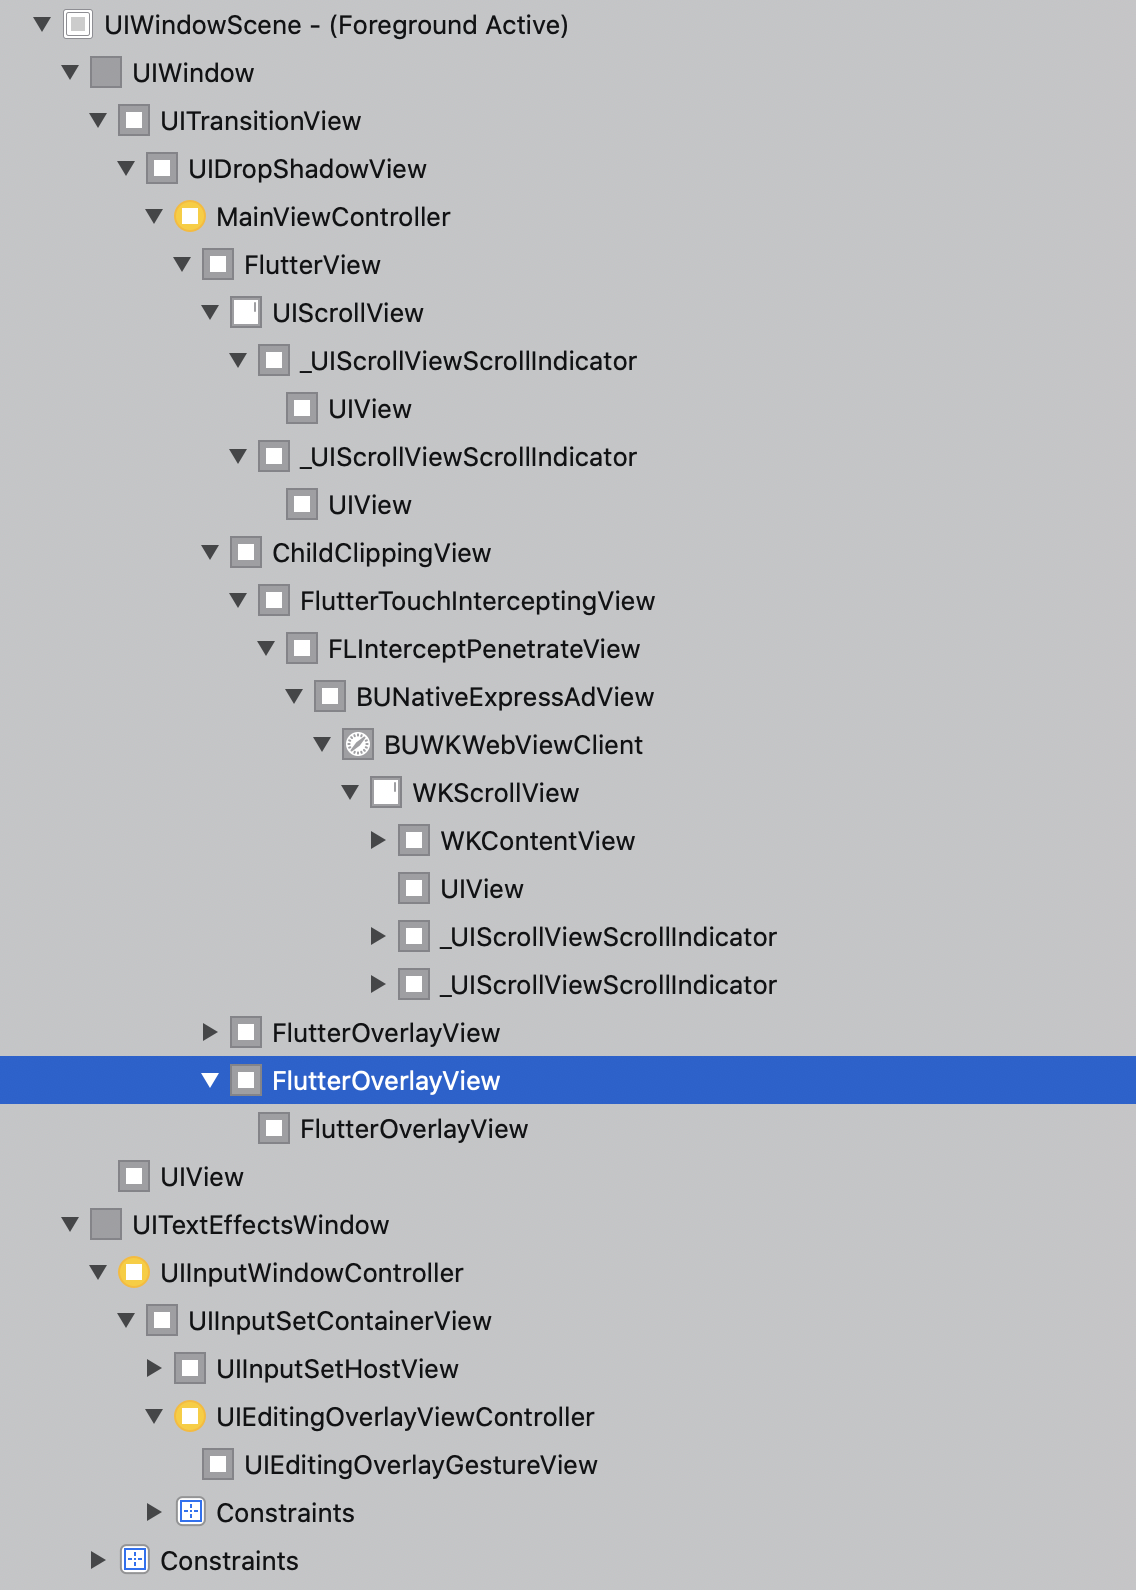
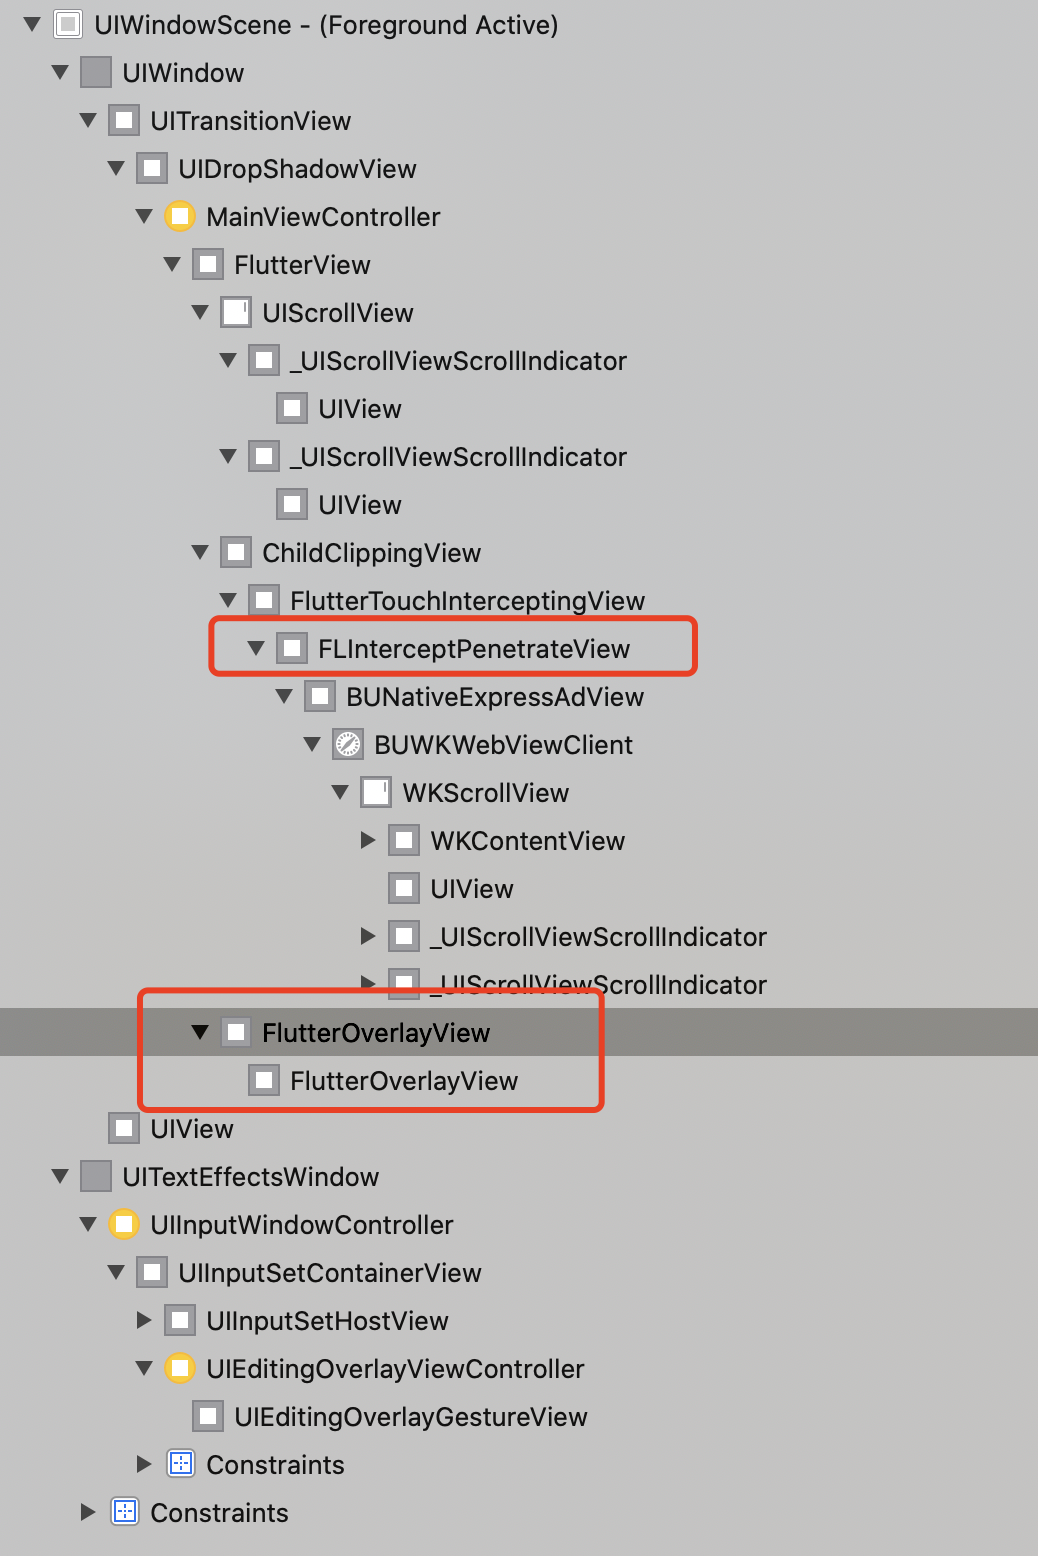
更新flutter原生广告点击穿透文章

Changed region(s): [[0.0, 0.0, 1.0, 0.9871]]

diff --git a/_posts/2021-02-01-bytedance-ad-click-penetration-on-flutter.md b/_posts/2021-02-01-bytedance-ad-click-penetration-on-flutter.md
@@ -159,7 +159,9 @@ root_views_[viewId] = fml::scoped_nsobject<UIView>([clipping_view retain]);
 > 1. Delay or prevent touch events from arriving the embedded view.
 > 2. Dispatching all events that are hittested to the embedded view to the FlutterView.
 
-文字总是晦涩难懂，下面是`PlatformView`实际案例的截图，可以更清晰明了地看到View的层级关系
+**实际案例展示**
+
+文字总是晦涩难懂，下面是`PlatformView`实际案例的截图，可以更清晰明了地看到`View`的层级关系
 
 |                     iOS View Tree                     |                 实时渲染层级                 |
 | :---------------------------------------------------: | :------------------------------------------: |
@@ -169,19 +171,19 @@ root_views_[viewId] = fml::scoped_nsobject<UIView>([clipping_view retain]);
 
 ## 什么是点击穿透
 
-在了解了头条原生广告是如何以`PlatformView`形式展示之后，我们继续来看看，点击穿透是如何发生的。当`PlatformView`滑动到页面某个位置时，可能会出现Flutter 页面中的Widget和`PlatformView`重叠的情况。此时点击屏幕时用户期望的是由最上方展示的UI层来响应点击事件，然而在实际开发中，笔者发现头条广告所在的`PlatformView`被Widget遮挡的时候，用户点击Widget，广告的点击事件却被响应了。如图所示：
+在了解了头条原生广告是如何以`PlatformView`形式展示之后，我们继续来看看，点击穿透是如何发生的。当`PlatformView`滑动到页面某个位置时，可能会出现Flutter 页面中的`Widget`和`PlatformView`重叠的情况。此时点击屏幕时用户期望的是由最上方展示的UI层来响应点击事件，然而在实际开发中，笔者发现头条广告所在的`PlatformView`被Widget遮挡的时候，用户点击`Widget`，广告的点击事件却被响应了。如图所示：
 
 ![](/assets/img/flutter/express-penetrate.gif)
 
-上图的场景是，把头条广告滑动到搜索栏下方，然后点击搜索栏Widget，响应到搜索事件（可以看到搜索页面已经被调起），然而广告点击事件也响应了（跳转到广告指定的App Store链接）。
+上图的场景是，把头条广告滑动到搜索栏下方，然后点击搜索栏`Widget`，响应到搜索事件（可以看到搜索页面已经被调起），然而广告点击事件也响应了（跳转到广告指定的App Store链接）。
 
 ## 点击穿透时 Flutter 做了什么
 
 不知道读者发现了没，如上动图展示的场景，跟普通`PlatformView`没有被遮挡的场景不太一样，那么`PlatformView`被遮挡时，Flutter 又是如何渲染的呢？
 
-由上面的iOS View Tree图我们知道，当 Flutter Application 启动后，会展示一个 `FlutterViewController`，而`FlutterViewController`的 root view 是一个 `FlutterView`，所有的Widget Tree对应的layer都是渲染在`FlutterView`上的。
+由上面的iOS View Tree图我们知道，当 Flutter Application 启动后，会展示一个 `FlutterViewController`，而`FlutterViewController`的 root view 是一个 `FlutterView`，所有的`Widget` Tree对应的layer都是渲染在`FlutterView`上的。
 
-原生广告也是一个原生`UIView`，按照我们看到的View层级，理论上如果添加了原生广告，原生广告`UIView`和`FlutterView`重叠的部分Widget layer应该是不可见的，然而现在它们确实可见的，而且还可以响应触摸事件，是不是很神奇？
+原生广告也是一个原生`UIView`，按照我们看到的View层级，理论上如果添加了原生广告，原生广告`UIView`和`FlutterView`重叠的部分`Widget` layer应该是不可见的，然而现在它们确实可见的，而且还可以响应触摸事件，是不是很神奇？
 
 **FlutterOverlayView**
 
@@ -191,7 +193,7 @@ root_views_[viewId] = fml::scoped_nsobject<UIView>([clipping_view retain]);
 | :--------------------------------------------: | :--------------------------------------------: |
 | ![](/assets/img/flutter/express-overlay-1.png) | ![](/assets/img/flutter/express-overlay-2.png) |
 
-从图中可以看到，原生广告和Widget重叠之后，`PlatformView`的正上方被覆盖了一层大小一样的`FlutterOverlayView`，那么可以猜测被`PlatformView`遮挡的那部分Wiget layer应该是被再次地绘制到了`FlutterOverlayView`上。一起来看看源码：
+从图中可以看到，原生广告和`Widget`重叠之后，`PlatformView`的正上方被覆盖了一层大小一样的`FlutterOverlayView`，那么可以猜测被`PlatformView`遮挡的那部分`Widget` layer应该是被再次地绘制到了`FlutterOverlayView`上。一起来看看源码：
 
 ```c++
 void FlutterPlatformViewsController::BringLayersIntoView(LayersMap layer_map) {
@@ -226,9 +228,128 @@ void FlutterPlatformViewsController::BringLayersIntoView(LayersMap layer_map) {
 
 ## 为什么会点击穿透
 
+要理解为什么会点击穿透，首先要理解iOS的事件传递和UI Responder Chain相关的知识。这里作一个简介：
+
+### 传递链
+
+- 事件传递的两个核心方法
+
+  ```objc
+  // recursively calls -pointInside:withEvent:. point is in the receiver's coordinate system
+  - (nullable UIView *)hitTest:(CGPoint)point withEvent:(nullable UIEvent *)event;
+  // default returns YES if point is in bounds
+  - (BOOL)pointInside:(CGPoint)point withEvent:(nullable UIEvent *)event;
+  ```
+
+  `hitTest`方法返回的是一个`UIView`，是用来寻找最终哪一个视图来响应这个事件。`pointInside`方法是用来判断某一个点击的位置是否在视图范围内，如果在就返回YES。
+
+- `UIView`不响应事件的三种情况
+
+  ```objc
+  alpha < 0.01
+  userInteractionEnabled = NO
+  hidden ＝ YES
+  ```
+
+- 事件传递流程
+
+  > 1. 我们点击屏幕产生触摸事件，系统将这个事件加入到一个由UIApplication管理的事件队列中，UIApplication会从消息队列里取事件分发下去，首先传给UIWindow
+  > 2. 在UIWindow中就会调用hitTest:withEvent:方法去返回一个最终响应的视图
+  > 3. 在hitTest:withEvent:方法中就会去调用pointInside: withEvent:去判断当前点击的point是否在UIWindow范围内，如果是的话，就会去遍历它的子视图来查找最终响应的子视图
+  > 4. 遍历的方式是使用倒序的方式来遍历子视图，也就是说最后添加的子视图会最先遍历，在每一个视图中都会去调用它的hitTest:withEvent:方法，可以理解为是一个递归调用
+  > 5. 最终会返回一个响应视图，如果返回视图有值，那么这个视图就作为最终响应视图，结束整个事件传递；如果没有值，那么就会将UIWindow作为响应者
+
+### 响应链
+
+- 响应链流程
+
+  > 1. 如果view的控制器存在，就传递给控制器处理；如果控制器不存在，则传递给它的父视图
+  > 2. 在视图层次结构的最顶层，如果也不能处理收到的事件，则将事件传递给UIWindow对象进行处理
+  > 3. 如果UIWindow对象也不处理，则将事件传递给UIApplication对象
+  > 4. 如果UIApplication也不能处理该事件，则将该事件丢弃
+
+- 响应链图示
+
+  ![](/assets/img/iOS/ui_responder_chain.png)
+
+### 小结
+
+理解了 iOS 事件传递链和响应链，再对照上面我们截图的点击穿透iOS view hierachy，不难发现，当我们点击覆盖在广告`View`上方的`Widget`时，最优先响应该事件的`View`是用来渲染被原生广告遮挡的`Widget` layer 的`FlutterOverlayView`，那么为什么广告响应了点击？笔者查看了`FlutterOverlayView`的实现源码，发现它在初始化时被禁用了用户交互响应：
+
+```objc
+- (instancetype)init {
+  self = [super initWithFrame:CGRectZero];
+
+  if (self) {
+    self.layer.opaque = NO;
+    self.userInteractionEnabled = NO;//笔者注：被禁用了用户交互，不能作为UI Responder Chain的其中一环了
+    self.autoresizingMask = (UIViewAutoresizingFlexibleWidth | UIViewAutoresizingFlexibleHeight);
+  }
+
+  return self;
+}
+```
+
+所以，点击事件就会在广告这个`View`上被响应！
+
 ## 如何解决点击穿透
 
-## 抽象通用解决方案
+问题找到了，导致问题出现的原因也清晰了，那么解决方案自然就呼之欲出了。
+
+### 备选方案
+
+上面分析了`FlutterOverlayView`被禁用了用户交互，不能作为事件响应链的其中一环，但它却又是最优先响应这个点击事件的`View`，因此最直接的方案就是修改`FlutterOverlayView`的源码，将它放开用户交互，事件就不会再穿透给原生广告`View`了。但这相当于是修改了 Flutter 引擎源码，不仅要重新编译引擎源码，而且会不会对 Flutter 的绘制或者事件响应造成影响，无法预料，该方案只能作为备选。
+
+### 分析解决方案
+
+那么，`FlutterOverlayView`我们无法修改，是不是可以在UI Responder Chain中插入一环，来拦截掉这种特殊情况下的点击事件传递呢？当然是可以的！上面我们介绍了iOS事件传递链的流程，仅需要给原生广告`View`添加一个父容器（其实上面的截图中已经出现过并用红色框聚焦了，`FLInterceptPenetrateView`），重写它的`hitTest`方法，通过调用`pointInside`方法来判断，当次点击事件是属于点击穿透的场景，则消费掉此次点击事件，不再传递即可。
+
+根据我们对广告和`FlutterOverlayView`的重叠关系，当出现以下三种情况时，点击位置在`FlutterOverlayView`内部，则会出现点击穿透的问题
+
+![](/assets/img/flutter/penetrate_cases.png)
+
+<div align="center">
+  <label width="50%" textAlignment="left" style="color: #B3B3B3; font-size: 0.8rem">FlutterOverlayView 与 原生广告View 重叠平面图</label>
+</div>
+
+<br/>上面三种case转换成算法也很简单
+
+```swift
+if feed!.frame.contains(view.frame) || view.frame.contains(feed!.frame) {
+    // feed view contains overlay, or overlay contains feed view
+    print("zzz \(containerType) contains overlay, or overlay contains \(containerType)")
+    return true
+}
+if feed!.frame.intersects(view.frame) || view.frame.intersects(feed!.frame) {
+    // feed view is intersected with overaly
+    print("zzz \(containerType) is intersected with overaly")
+    return true
+}
+```
+
+### 点击穿透最终拦截方案
+
+当我们利用上述算法判断出`FlutterOverlayView`出现在广告上方时，存在相交或者包含关系时，就可以认定如果点击位置在`FlutterOverlayView`内部，就会出现点击穿透，此时`FLIntercptPenetrateView`的`hitTest`方法，返回nil即可实现点击事件拦截，从而屏蔽调原生广告对本次点击事件的响应。
+
+```swift
+override func hitTest(_ point: CGPoint, with event: UIEvent?) -> UIView? {
+    if !self.isUserInteractionEnabled || self.isHidden || self.alpha < 0.01 {
+        // interaction disable
+        // hidden
+        // nearly invisble
+        return nil
+    }
+    
+    //找到点击落点所在的Overlay
+    let targetOverlay = findTargetOverlayView(point)
+    //判断Overlay符合与广告相交、重合，则返回nil实现事件拦截
+    if let target = targetOverlay, isOverlayOnTopOfFeedView(container: self, overlay: target) {
+      	return nil
+    } else {
+      	return super.hitTest(point, with: event)
+    }
+}
+```
 
 
 
@@ -239,3 +360,5 @@ void FlutterPlatformViewsController::BringLayersIntoView(LayersMap layer_map) {
 [Flutter PlatformView 渲染层级介绍](http://www.luoyibu.cn/posts/63773/)
 
 [手把手教你定位FlutterPlatformView內存洩漏](https://codertw.com/%E7%A8%8B%E5%BC%8F%E8%AA%9E%E8%A8%80/759897/)
+
+[Using Responders and the Responder Chain to Handle Events](https://developer.apple.com/documentation/uikit/touches_presses_and_gestures/using_responders_and_the_responder_chain_to_handle_events)
